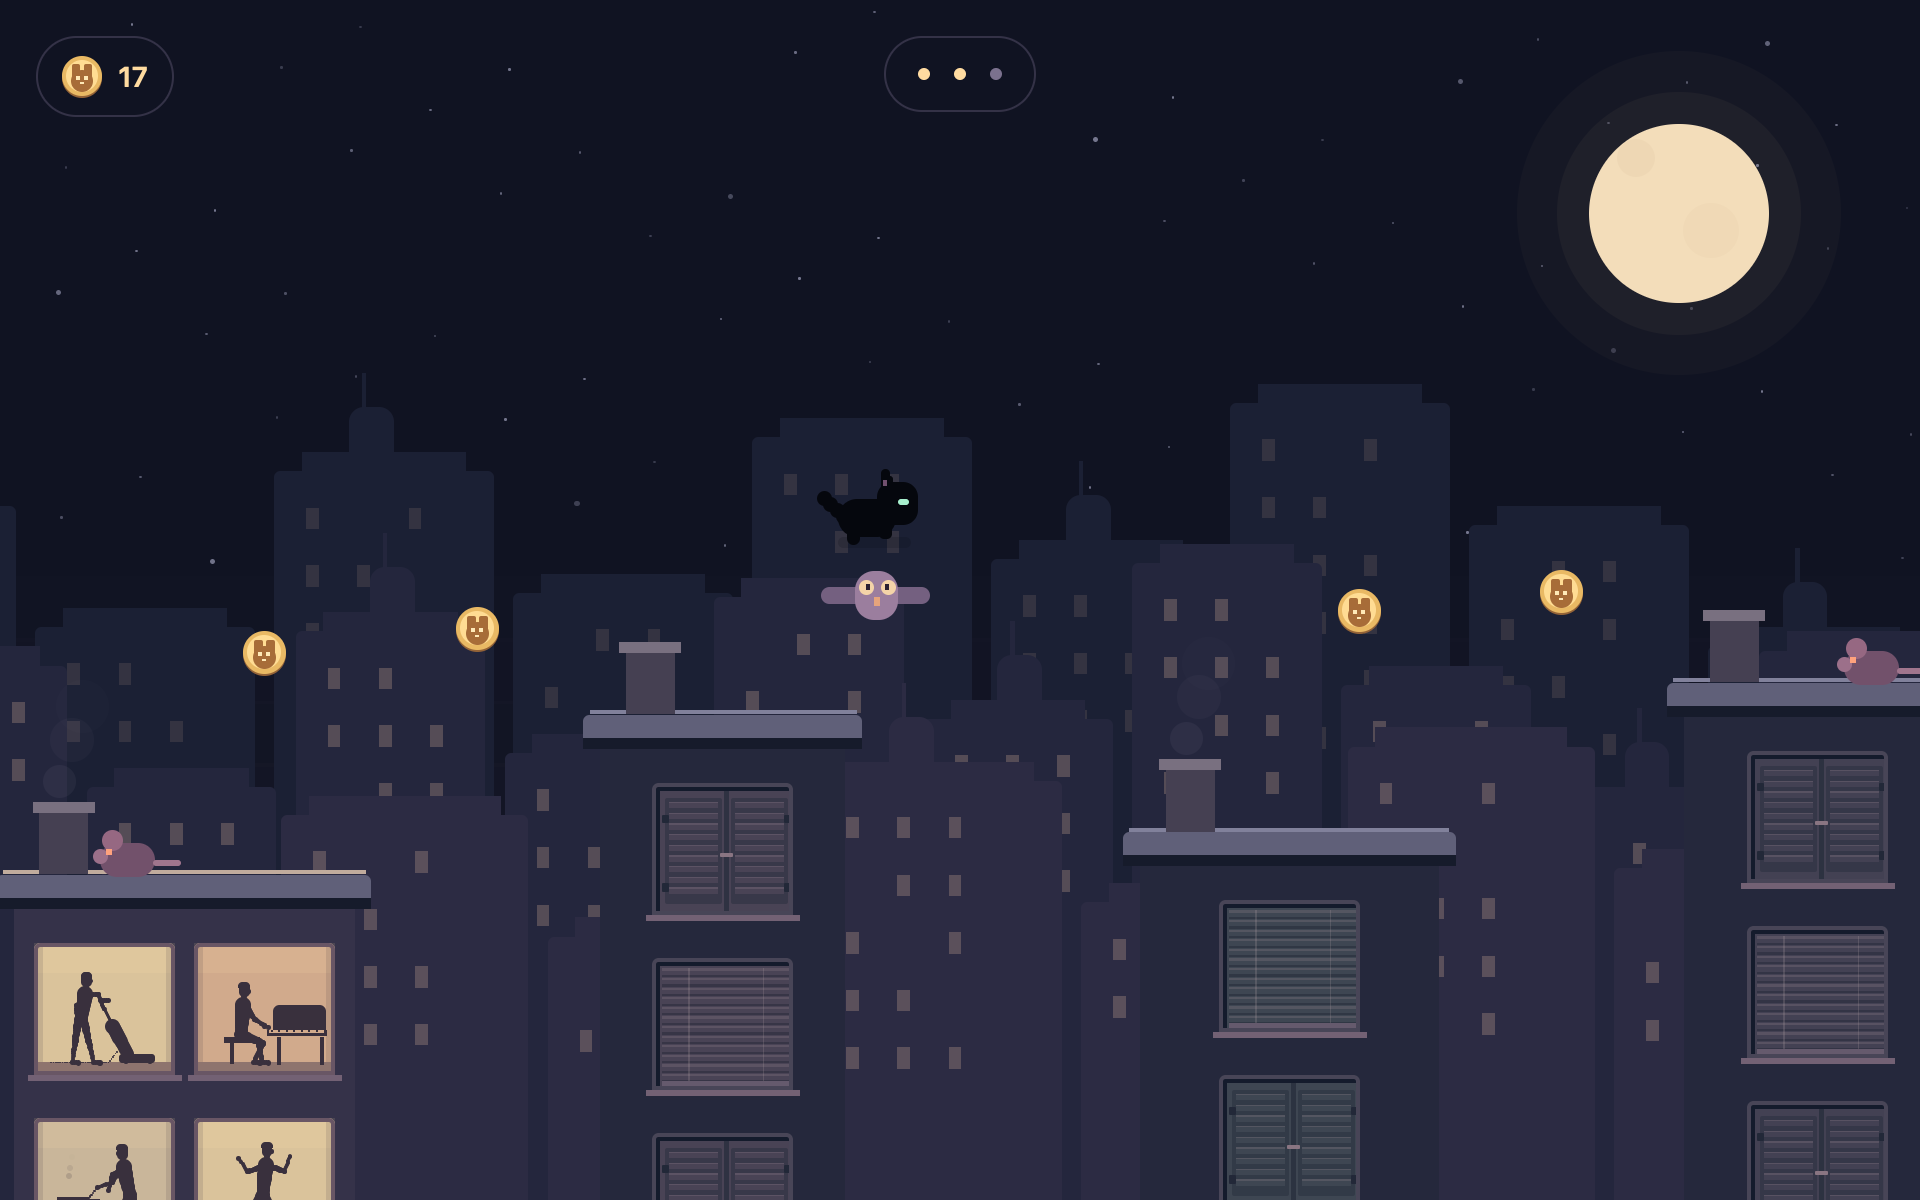
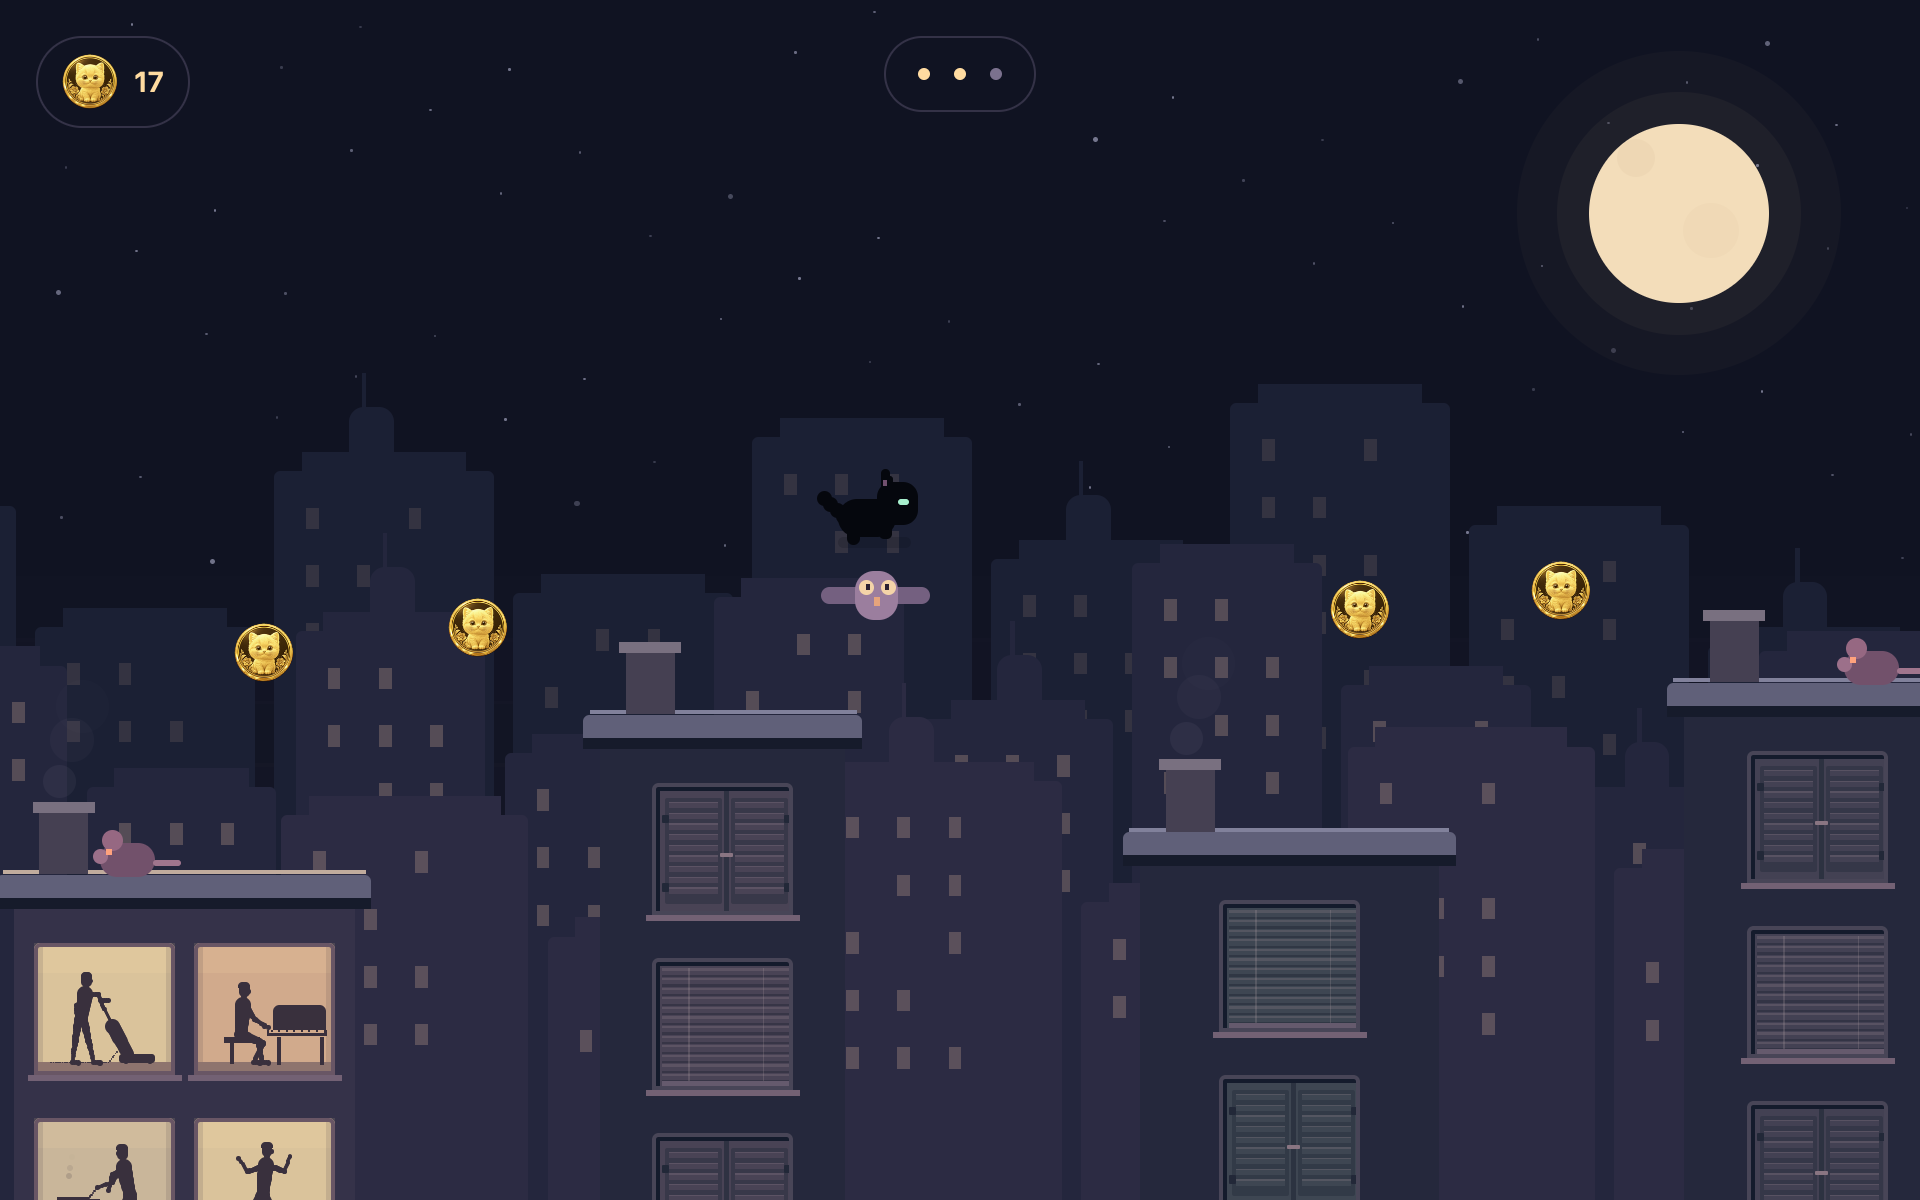
feat: prepare for version 0.10.1 release with changelog updates and new kitten coin assets

diff --git a/src/rooftops.rs b/src/rooftops.rs
@@ -1,4 +1,4 @@
-use std::time::Instant;
+use std::{sync::Arc, time::Instant};
 
 use crate::rooftops_score::Score;
 use gpui_kit::component::{
@@ -8,9 +8,9 @@ use gpui_kit::component::{
 };
 
 use gpui_kit::{
-    App, AppContext as _, Context, FocusHandle, Focusable, InteractiveElement as _, IntoElement,
-    KeyDownEvent, KeyUpEvent, ParentElement as _, Render, Styled as _, Subscription, Window, div,
-    px, rgb,
+    App, AppContext as _, Context, FocusHandle, Focusable, Image, ImageFormat,
+    InteractiveElement as _, IntoElement, KeyDownEvent, KeyUpEvent, ParentElement as _, Render,
+    Styled as _, Subscription, Window, div, img, px, rgb,
 };
 
 const STEP: f32 = 1. / 120.;
@@ -509,6 +509,7 @@ pub struct Rooftops {
     last_frame: Option<Instant>,
     remainder: f32,
     camera: f32,
+    coin_art: Arc<Image>,
     save_message: Option<String>,
     saving: bool,
     #[cfg(feature = "walkthrough-screenshots")]
@@ -534,12 +535,32 @@ impl Rooftops {
             this.remainder = 0.;
             cx.notify();
         });
+        // Match the other utility windows: avoid native window teardown in
+        // bundled builds. Reset the run before hiding the retained window.
+        let game = cx.entity().downgrade();
+        window.on_window_should_close(cx, move |window, cx| {
+            let _ = game.update(cx, |game, cx| {
+                game.run = Run::new();
+                game.last_frame = None;
+                game.remainder = 0.;
+                game.camera = 0.;
+                game.save_message = None;
+                game.saving = false;
+                #[cfg(feature = "walkthrough-screenshots")]
+                {
+                    game.preview = false;
+                }
+                cx.notify();
+            });
+            crate::window_limits::hide_instead_of_close(window)
+        });
         Self {
             run: Run::new(),
             focus,
             last_frame: None,
             remainder: 0.,
             camera: 0.,
+            coin_art: kitten_coin_art(),
             save_message: None,
             saving: false,
             #[cfg(feature = "walkthrough-screenshots")]
@@ -828,22 +849,26 @@ fn circle(x: f32, y: f32, diameter: f32, color: u32, scale: f32) -> gpui_kit::Di
     block(x, y, diameter, diameter, color, scale).rounded_full()
 }
 
-fn cat_coin(x: f32, y: f32, scale: f32) -> impl IntoElement {
-    div()
+fn kitten_coin_art() -> Arc<Image> {
+    // Prefilter the fine engraving before it becomes a small GPU texture,
+    // retaining the transparent edge and avoiding speckled highlights.
+    let artwork = image::load_from_memory(include_bytes!("../packaging/kitten-coin.png"))
+        .expect("embedded kitten coin must be a valid PNG")
+        .resize_exact(112, 112, image::imageops::FilterType::Lanczos3);
+    let mut bytes = std::io::Cursor::new(Vec::new());
+    artwork
+        .write_to(&mut bytes, image::ImageFormat::Png)
+        .expect("embedded kitten coin must encode as PNG");
+    Arc::new(Image::from_bytes(ImageFormat::Png, bytes.into_inner()))
+}
+
+fn cat_coin(x: f32, y: f32, scale: f32, artwork: &Arc<Image>) -> impl IntoElement {
+    img(artwork.clone())
         .absolute()
-        .left(px((x - 10.) * scale))
-        .top(px((y - 10.) * scale))
-        .w(px(20. * scale))
-        .h(px(20. * scale))
-        .child(circle(0., 1., 20., 0x946337, scale))
-        .child(circle(0., 0., 20., 0xe9b964, scale))
-        .child(circle(2., 2., 16., 0xffdc93, scale))
-        .child(circle(4.5, 7., 11., 0xa76c38, scale))
-        .child(block(5., 4., 4., 7., 0xa76c38, scale).rounded_t(px(scale)))
-        .child(block(11., 4., 4., 7., 0xa76c38, scale).rounded_t(px(scale)))
-        .child(block(7., 10., 2., 2., 0xffe9b7, scale))
-        .child(block(11., 10., 2., 2., 0xffe9b7, scale))
-        .child(block(9., 13., 2., 1., 0xffe9b7, scale))
+        .left(px((x - 14.) * scale))
+        .top(px((y - 14.) * scale))
+        .w(px(28. * scale))
+        .h(px(28. * scale))
 }
 
 type Joint = (f32, f32);
@@ -1712,7 +1737,7 @@ impl Render for Rooftops {
             if !(-25. ..w + 25.).contains(&x) {
                 continue;
             }
-            scene = scene.child(cat_coin(x, coin.y, scale));
+            scene = scene.child(cat_coin(x, coin.y, scale, &self.coin_art));
         }
         for enemy in run.enemies.iter().filter(|enemy| !enemy.defeated) {
             let (x, y) = enemy.position(&run.roofs, run.time);
@@ -1814,13 +1839,12 @@ impl Render for Rooftops {
                 .bg(rgb(SKY))
                 .border_1()
                 .border_color(rgb(0x343247))
-                .child(
-                    div()
-                        .relative()
-                        .w(px(20.))
-                        .h(px(20.))
-                        .child(cat_coin(10., 10., 1.)),
-                )
+                .child(div().relative().w(px(28.)).h(px(28.)).child(cat_coin(
+                    14.,
+                    14.,
+                    1.,
+                    &self.coin_art,
+                )))
                 .child(
                     div()
                         .text_sm()
@@ -1869,6 +1893,50 @@ impl Render for Rooftops {
 #[cfg(test)]
 mod tests {
     use super::*;
+
+    #[gpui_kit::test]
+    fn closing_rooftops_retains_the_window_and_resets_the_game(cx: &mut gpui_kit::TestAppContext) {
+        let (view, window) = cx.add_window_view(Rooftops::new);
+        window.update(|_, cx| {
+            view.update(cx, |game, _| {
+                game.run = Run::for_level(2);
+                game.run.elapsed = 42.;
+                game.run.banked_returns = 3;
+                game.run.banked_kills = 5;
+                game.run.input.right = true;
+                game.run.buffer = 0.1;
+                game.camera = 800.;
+                game.save_message = Some("Saved previous score".into());
+                game.saving = true;
+                game.last_frame = Some(Instant::now());
+                game.remainder = STEP / 2.;
+                game.run.coins[0].collected = true;
+            });
+        });
+        assert!(
+            !window.simulate_close(),
+            "Rooftops must hide instead of destroying its native window"
+        );
+        window.update(|_, cx| {
+            view.update(cx, |game, _| {
+                assert!(!game.run.input.right);
+                assert_eq!(game.run.buffer, 0.);
+                assert!(game.last_frame.is_none());
+                assert_eq!(game.remainder, 0.);
+                assert_eq!(game.run.level, 0);
+                assert!(game.run.coins.iter().all(|coin| !coin.collected));
+                assert_eq!(game.run.score().coins, 0);
+                assert_eq!(game.run.score().deaths, 0);
+                assert_eq!(game.run.score().kills, 0);
+                assert_eq!(game.run.elapsed, 0.);
+                assert_eq!(game.run.x, Run::new().x);
+                assert_eq!(game.run.y, Run::new().y);
+                assert_eq!(game.camera, 0.);
+                assert!(game.save_message.is_none());
+                assert!(!game.saving);
+            });
+        });
+    }
 
     #[gpui_kit::test]
     fn play_time_excludes_pauses_and_completion(cx: &mut gpui_kit::TestAppContext) {

diff --git a/packaging/kitten-coin.md b/packaging/kitten-coin.md
@@ -1,0 +1,9 @@
+# Rooftops kitten coin
+
+Generated with the built-in image-generation tool using the user's gold kitten
+coin as a visual reference. The transparent master is `kitten-coin.png`.
+Rooftops prefilters it to a small texture once when the game is created.
+
+## Generation prompt
+
+Use case: stylized-concept. Asset type: single collectible gold coin sprite for a small platform game. Input image is reference only for the cute baby kitten and gold relief style. Create a new perfectly round coin viewed directly face-on, isolated on a truly transparent background, square composition with coin filling 94% of frame and tiny clear margins. A very cute baby kitten with large round shiny eyes, pointed ears, rounded cheeks, tiny nose and clear whiskers, sitting with two little front paws, sculpted as bright raised gold bas-relief on a dark bronze-gold recessed field. Enlarge kitten head so it occupies most of coin face and remains unmistakably a baby CAT when displayed at 28 pixels. Body and paws small at bottom. Fine fur engraving, thick luxurious concentric polished golden rims, milled ornamental edging and subtle floral engraved flourishes low at sides similar to reference but simplified. High contrast luminous light gold kitten against dark recessed field. Soft top-left metallic highlights, no cast shadow outside coin. No text, no words, no letters, no numbers, no watermark anywhere. Avoid realistic photograph scenery, tilted perspective, checkerboard, white background. The coin must be completely contained in frame, crisp circle and transparent exterior.

diff --git a/docs/EASTER_EGG.md b/docs/EASTER_EGG.md
@@ -1,7 +1,8 @@
 # Rooftops Easter egg
 
 Click the cat logo in Gatto's main window to open Rooftops, a black-cat
-platformer with three levels. Close the game window to return to the app.
+platformer with three levels. Close the game window to return to the app. Closing resets and hides the game;
+click the cat logo again to start a fresh run.
 
 ![A black cat jumping toward cat-face coins above illuminated apartments](images/walkthrough/rooftops-1.png)
 
@@ -25,8 +26,8 @@ Landing lights the buildings, revealing residents through their windows
 vacuuming, playing piano, gardening, cooking, dancing, or stargazing.
 Dark windows have closed blinds or shutters; lit windows leave the residents
 fully visible. Three skyline layers scroll at different speeds
-to create the parallax effect. The scene uses native GPUI elements and the app's
-existing dependencies.
+to create the parallax effect. The scene uses native GPUI elements, an embedded gold-kitten coin sprite,
+and the app's existing dependencies.
 
 ![A mid-level owl encounter above narrow rooftops](images/walkthrough/rooftops-2.png)
 

diff --git a/CHANGELOG.md b/CHANGELOG.md
@@ -7,6 +7,18 @@ and this project follows [Semantic Versioning](https://semver.org/spec/v2.0.0.ht
 
 ## [Unreleased]
 
+## [0.10.1] - 2026-10-11
+
+### Changed
+
+- Updated Rooftops coins with a clearer baby-kitten design and ornate gold detailing.
+
+### Fixed
+
+- Applied the app's window-teardown workaround to Rooftops to address crashes when
+  closing its window in bundled builds. Closing resets the game, so reopening
+  starts a fresh run.
+
 ## [0.10.0] - 2026-10-11
 
 ### Added

diff --git a/.agents/skills/version-bump/SKILL.md b/.agents/skills/version-bump/SKILL.md
@@ -1,5 +1,5 @@
 ---
-name: changelog
+name: version-bump
 description: Update CHANGELOG.md and make the next semantic version release-ready.
 disable-model-invocation: true
 ---
